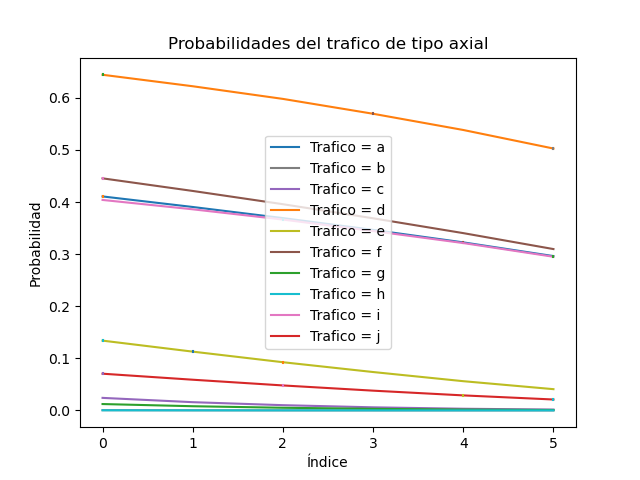
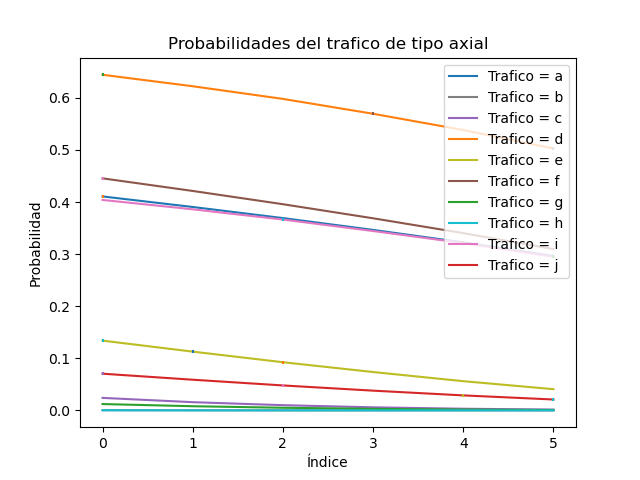
legend

Changed region(s): [[0.6875, 0.125, 0.9062, 0.5625], [0.4062, 0.2812, 0.625, 0.7188]]

diff --git a/scripts/principales/graficas.py b/scripts/principales/graficas.py
@@ -98,7 +98,7 @@ for tip in tipos:
     plt.xlabel('Índice')
     plt.ylabel('Probabilidad')
     plt.title('Probabilidades del trafico de tipo ' + str(tip))
-    plt.legend()
+    plt.legend(loc='upper right')
     # Mostrar la gráfica
     indice += 1
     plt.savefig(globales.image + tip)
